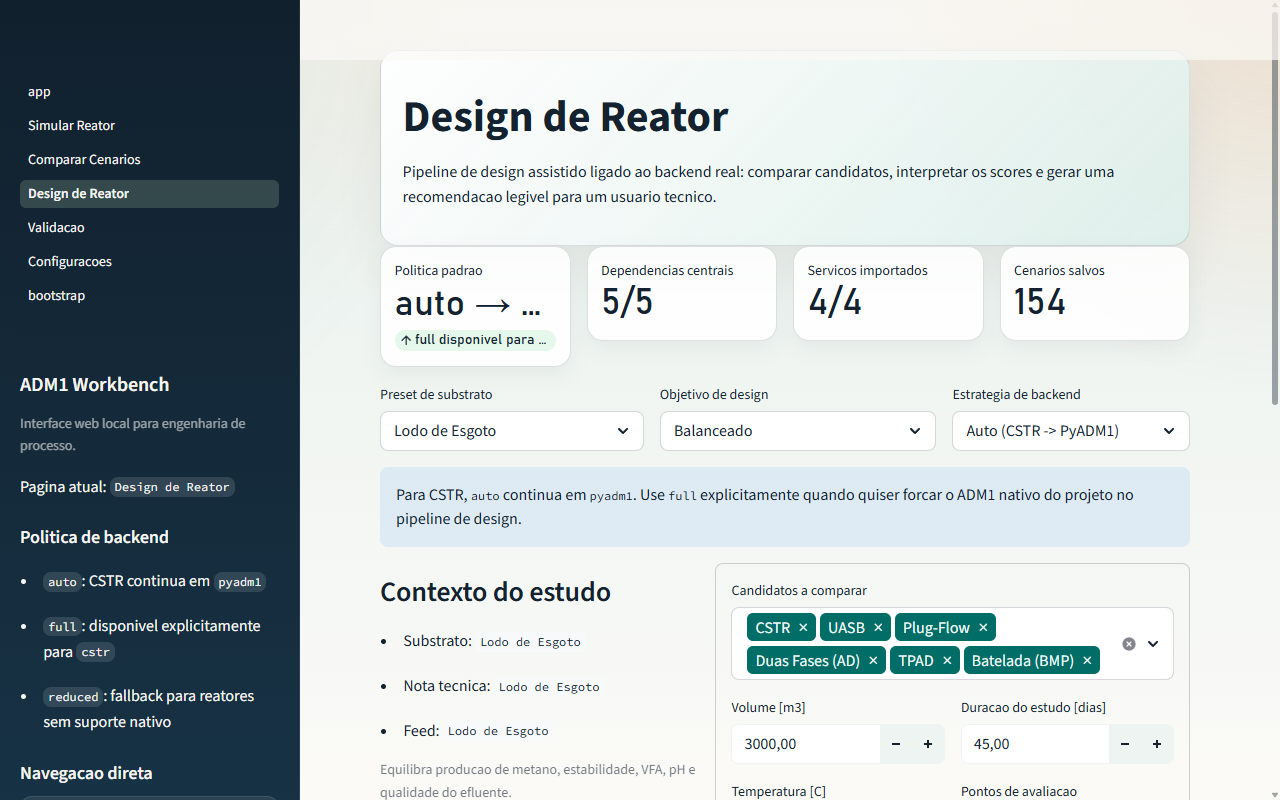
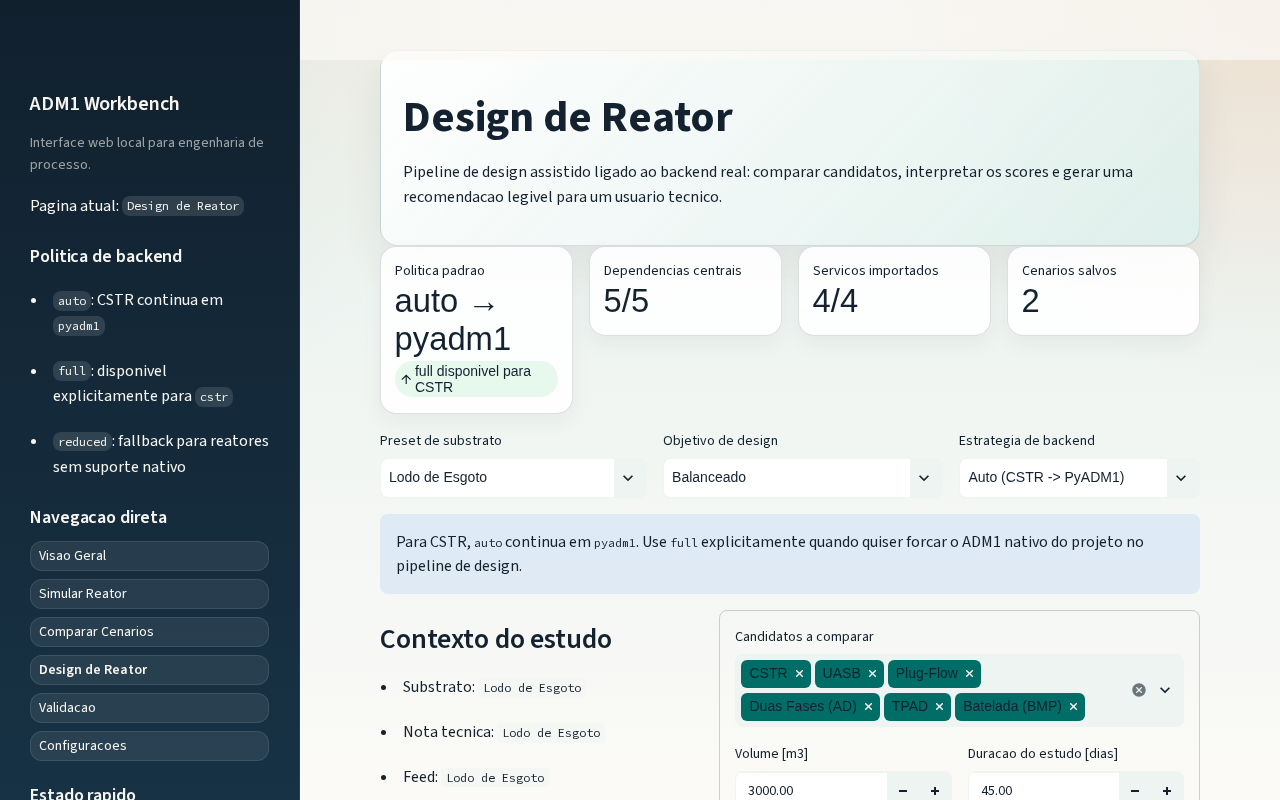
Refresh README screenshots and fix chart legend and KPI sizing
- Recapture docs/screenshots with the current UI
- capture_screenshots.py: run headless (a real window was resized by the
  window manager and collapsed the sidebar), wait for the script run to
  finish and scroll the result section to the top before capturing
- Chart legends move below the x axis; with long scenario ids the
  multi-line legend above the plot covered the chart title
- KPI values scale with their card (container query) and wrap only at
  spaces, so numbers like 1465.87 are no longer split mid-number

diff --git a/webapp/utils/theme.css b/webapp/utils/theme.css
@@ -315,9 +315,22 @@ div[data-baseweb="select"] [data-baseweb="tag"] * {
 [data-testid="stMetricDelta"] *,
 [data-testid="stCheckbox"] label [data-testid="stMarkdownContainer"] * {
   white-space: normal !important;
-  overflow-wrap: anywhere;
+  /* break-word only splits a word that cannot fit on its own line, so numbers
+     such as 1465.87 stay whole; anywhere would split them mid-number. */
+  overflow-wrap: break-word;
   text-overflow: clip !important;
   overflow: visible !important;
+}
+
+/* KPI values shrink with their card instead of wrapping inside numbers. */
+[data-testid="stMetric"] {
+  container-type: inline-size;
+}
+
+[data-testid="stMetricValue"],
+[data-testid="stMetricValue"] > div {
+  font-size: clamp(1.3rem, 20cqi, 2.25rem) !important;
+  line-height: 1.15;
 }
 
 @media (max-width: 1100px) {

diff --git a/webapp/testing/capture_screenshots.py b/webapp/testing/capture_screenshots.py
@@ -46,7 +46,8 @@ def scroll_and_capture(page: Page, path: Path, full_page: bool = True) -> None:
 def capture_home(page: Page) -> None:
     print("Capturando: Home")
     page.goto(BASE_URL, timeout=20000)
-    wait_streamlit(page, extra=2.0)
+    # The sidebar slides in after the first render; wait for the animation.
+    wait_streamlit(page, extra=4.0)
     scroll_and_capture(page, OUT_DIR / "01_home.png")
 
 
@@ -72,15 +73,23 @@ def capture_simular_reator(page: Page) -> None:
                 )
             except Exception:
                 pass
-            time.sleep(3.0)
+            page.wait_for_function(
+                "!document.querySelector('[data-testid=\"stStatusWidget\"]')",
+                timeout=180000,
+            )
+            time.sleep(2.0)
+            # The app scrolls inside its own container, so full_page only shows the
+            # viewport: scroll to the result section before capturing.
+            page.get_by_text("Resultado da simulação").first.evaluate("el => el.scrollIntoView({block: 'start'})")
+            time.sleep(1.0)
             hide_streamlit_toolbar(page)
-            page.screenshot(path=str(OUT_DIR / "03_simular_reator_resultado.png"), full_page=True)
+            page.screenshot(path=str(OUT_DIR / "03_simular_reator_resultado.png"), full_page=False)
             print(f"  Salvo: 03_simular_reator_resultado.png")
 
             # Scroll até gráficos Plotly e captura
-            charts = page.locator('.js-plotly-plot')
+            charts = page.locator('.js-plotly-plot:visible')
             if charts.count() > 0:
-                charts.first.scroll_into_view_if_needed()
+                charts.first.evaluate("el => el.scrollIntoView({block: 'start'})")
                 time.sleep(1.0)
                 page.screenshot(path=str(OUT_DIR / "04_graficos_adm1.png"), full_page=False)
                 print(f"  Salvo: 04_graficos_adm1.png")
@@ -131,7 +140,7 @@ def main() -> int:
     print(f"Salvando screenshots em: {OUT_DIR}\n")
 
     with sync_playwright() as p:
-        browser = p.chromium.launch(headless=False)  # headless=False para renderizar Plotly corretamente
+        browser = p.chromium.launch()
         context = browser.new_context(viewport=VIEWPORT)
         page = context.new_page()
 

diff --git a/webapp/components/charts.py b/webapp/components/charts.py
@@ -58,7 +58,9 @@ def _base_layout(title: str, *, height: int = 360) -> dict[str, Any]:
         "template": "plotly_white",
         "margin": {"l": 20, "r": 20, "t": 60, "b": 20},
         "height": height,
-        "legend": {"orientation": "h", "yanchor": "bottom", "y": 1.02, "xanchor": "left", "x": 0.0},
+        # Below the x axis: above the plot, a multi-line legend (long scenario ids)
+        # covers the title. Plotly grows the bottom margin to fit it.
+        "legend": {"orientation": "h", "yanchor": "top", "y": -0.3, "xanchor": "left", "x": 0.0},
         "paper_bgcolor": "rgba(255,255,255,0.85)",
         "plot_bgcolor": "rgba(255,255,255,0.85)",
     }
